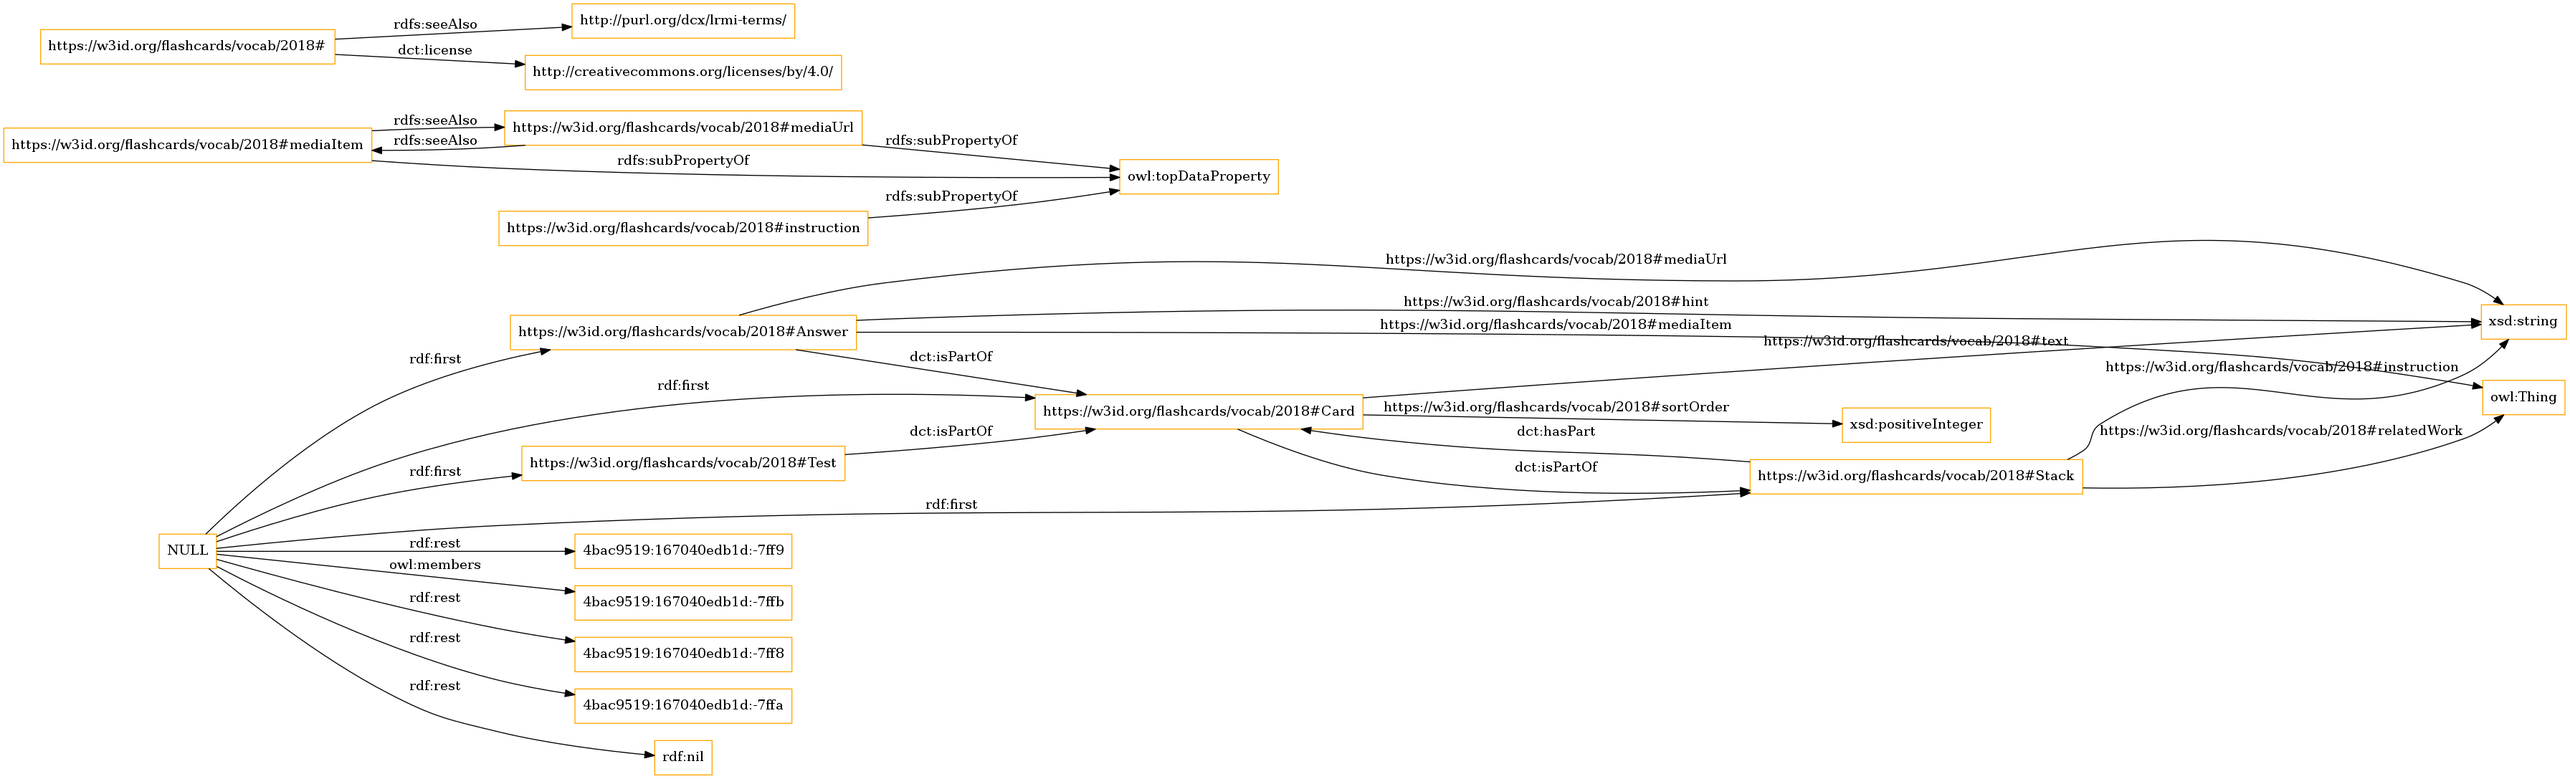
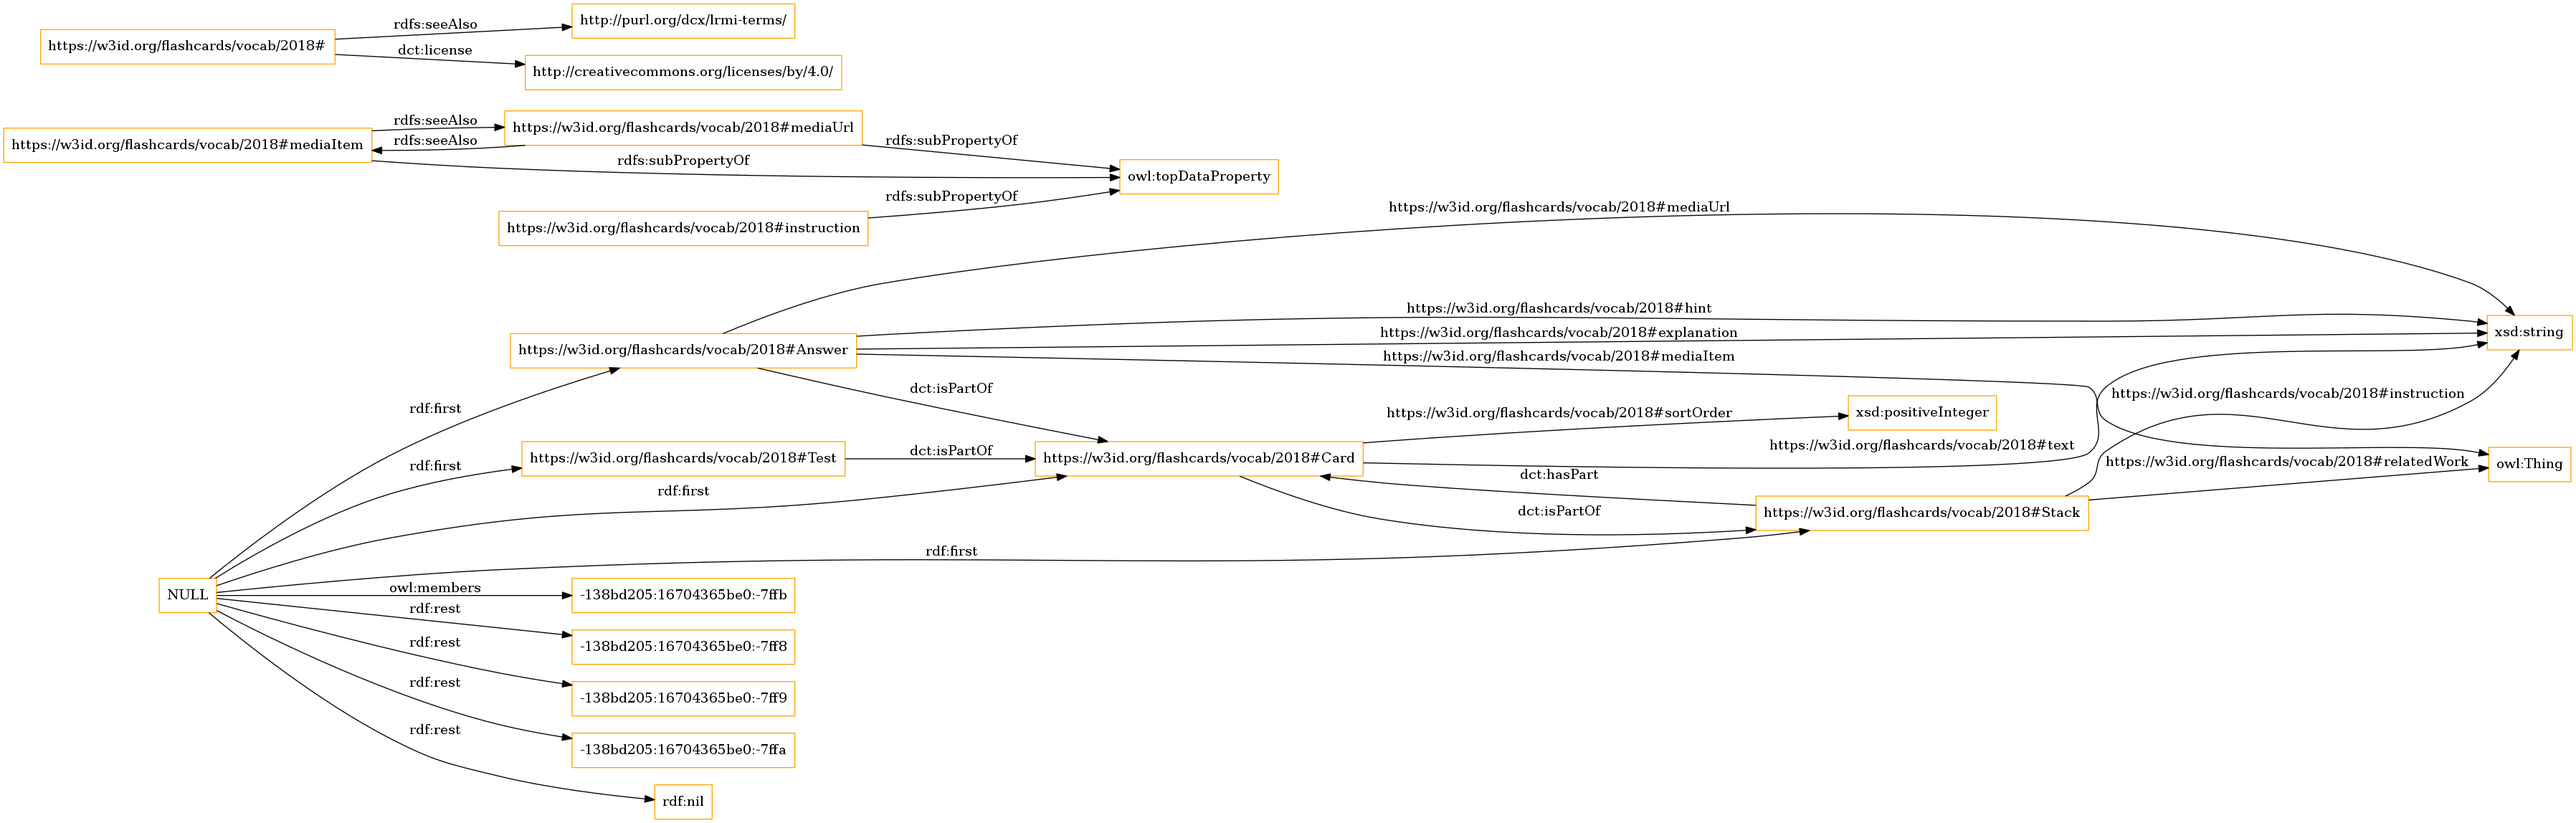
automated change

diff --git a/OnToology/flashcardvoc.owl/documentation/sections/crossref-en.html b/OnToology/flashcardvoc.owl/documentation/sections/crossref-en.html
@@ -29,7 +29,9 @@ This section provides details for each class and property defined by Flash card 
       <dl class="description">
          <dt>is in domain of</dt>
          <dd>
-            <a href="#https://w3id.org/flashcards/vocab/2018#hint" title="https://w3id.org/flashcards/vocab/2018#hint">hint</a>
+            <a href="#https://w3id.org/flashcards/vocab/2018#explanation"
+               title="https://w3id.org/flashcards/vocab/2018#explanation">explanation</a>
+            <sup class="type-dp" title="data property">dp</sup>, <a href="#https://w3id.org/flashcards/vocab/2018#hint" title="https://w3id.org/flashcards/vocab/2018#hint">hint</a>
             <sup class="type-dp" title="data property">dp</sup>, <a href="#https://w3id.org/flashcards/vocab/2018#mediaItem" title="https://w3id.org/flashcards/vocab/2018#mediaItem">media</a>
             <sup class="type-dp" title="data property">dp</sup>, <a href="#https://w3id.org/flashcards/vocab/2018#mediaUrl" title="https://w3id.org/flashcards/vocab/2018#mediaUrl">media url</a>
             <sup class="type-dp" title="data property">dp</sup>
@@ -158,6 +160,10 @@ This section provides details for each class and property defined by Flash card 
    <h3 id="dataproperties-headline" class="list">Data Properties</h3>
    <ul class="hlist">
       <li>
+         <a href="#https://w3id.org/flashcards/vocab/2018#explanation"
+            title="https://w3id.org/flashcards/vocab/2018#explanation">explanation</a>
+      </li>
+      <li>
          <a href="#https://w3id.org/flashcards/vocab/2018#hint" title="https://w3id.org/flashcards/vocab/2018#hint">hint</a>
       </li>
       <li>
@@ -177,6 +183,32 @@ This section provides details for each class and property defined by Flash card 
          <a href="#https://w3id.org/flashcards/vocab/2018#text" title="https://w3id.org/flashcards/vocab/2018#text">text</a>
       </li>
    </ul>
+   <div class="entity" id="https://w3id.org/flashcards/vocab/2018#explanation">
+      <h3>explanation<sup class="type-dp" title="data property">dp</sup>
+         <span class="backlink"> back to <a href="#toc">ToC</a> or <a href="#dataproperties">Data Property ToC</a>
+         </span>
+      </h3>
+      <p>
+         <strong>IRI:</strong> https://w3id.org/flashcards/vocab/2018#explanation</p>
+      <div class="comment">
+         <span class="markdown">A short text explaning the answer in more detail. E.g. for disambiguation purposes.</span>
+      </div>
+      <div class="description">
+         <p>
+            <strong>has characteristics:</strong> functional</p>
+         <dl>
+            <dt>has domain</dt>
+            <dd>
+               <a href="#https://w3id.org/flashcards/vocab/2018#Answer" title="https://w3id.org/flashcards/vocab/2018#Answer">Answer</a>
+               <sup class="type-c" title="class">c</sup>
+            </dd>
+            <dt>has range</dt>
+            <dd>
+               <span class="dotted" title="http://www.w3.org/2001/XMLSchema#string">string</span>
+            </dd>
+         </dl>
+      </div>
+   </div>
    <div class="entity" id="https://w3id.org/flashcards/vocab/2018#hint">
       <h3>hint<sup class="type-dp" title="data property">dp</sup>
          <span class="backlink"> back to <a href="#toc">ToC</a> or <a href="#dataproperties">Data Property ToC</a>

diff --git a/OnToology/flashcardvoc.owl/documentation/sections/overview-en.html b/OnToology/flashcardvoc.owl/documentation/sections/overview-en.html
@@ -22,6 +22,10 @@ This ontology has the following classes and properties.</span>
    </li>
 </ul><h4>Data Properties</h4><ul class="hlist">
    <li>
+      <a href="#https://w3id.org/flashcards/vocab/2018#explanation"
+         title="https://w3id.org/flashcards/vocab/2018#explanation">explanation</a>
+   </li>
+   <li>
       <a href="#https://w3id.org/flashcards/vocab/2018#hint" title="https://w3id.org/flashcards/vocab/2018#hint">hint</a>
    </li>
    <li>
